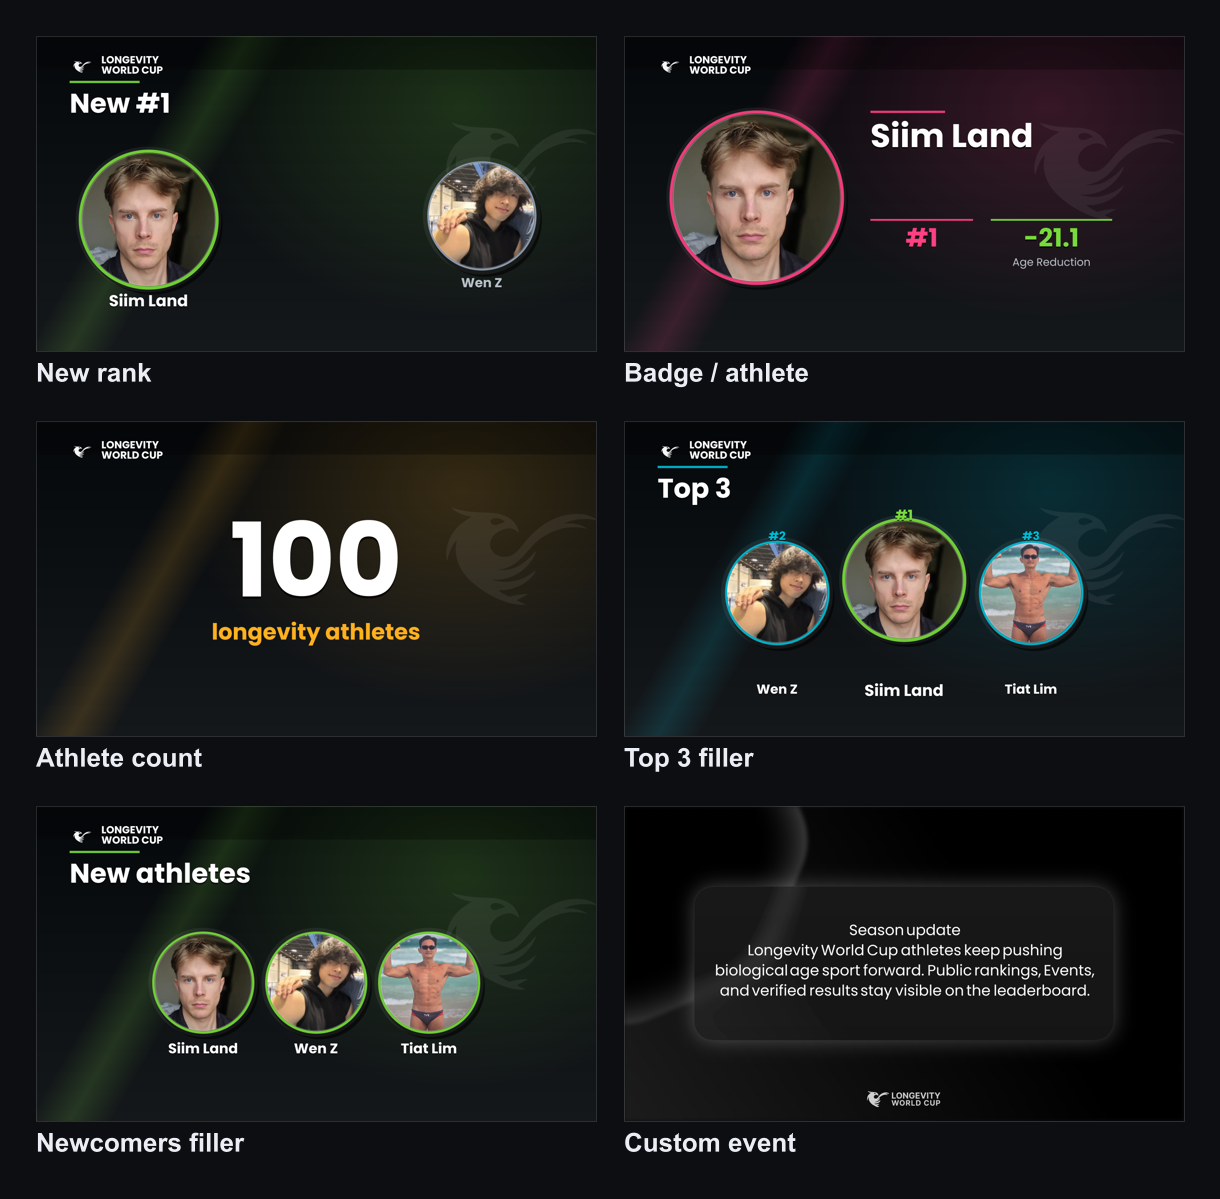
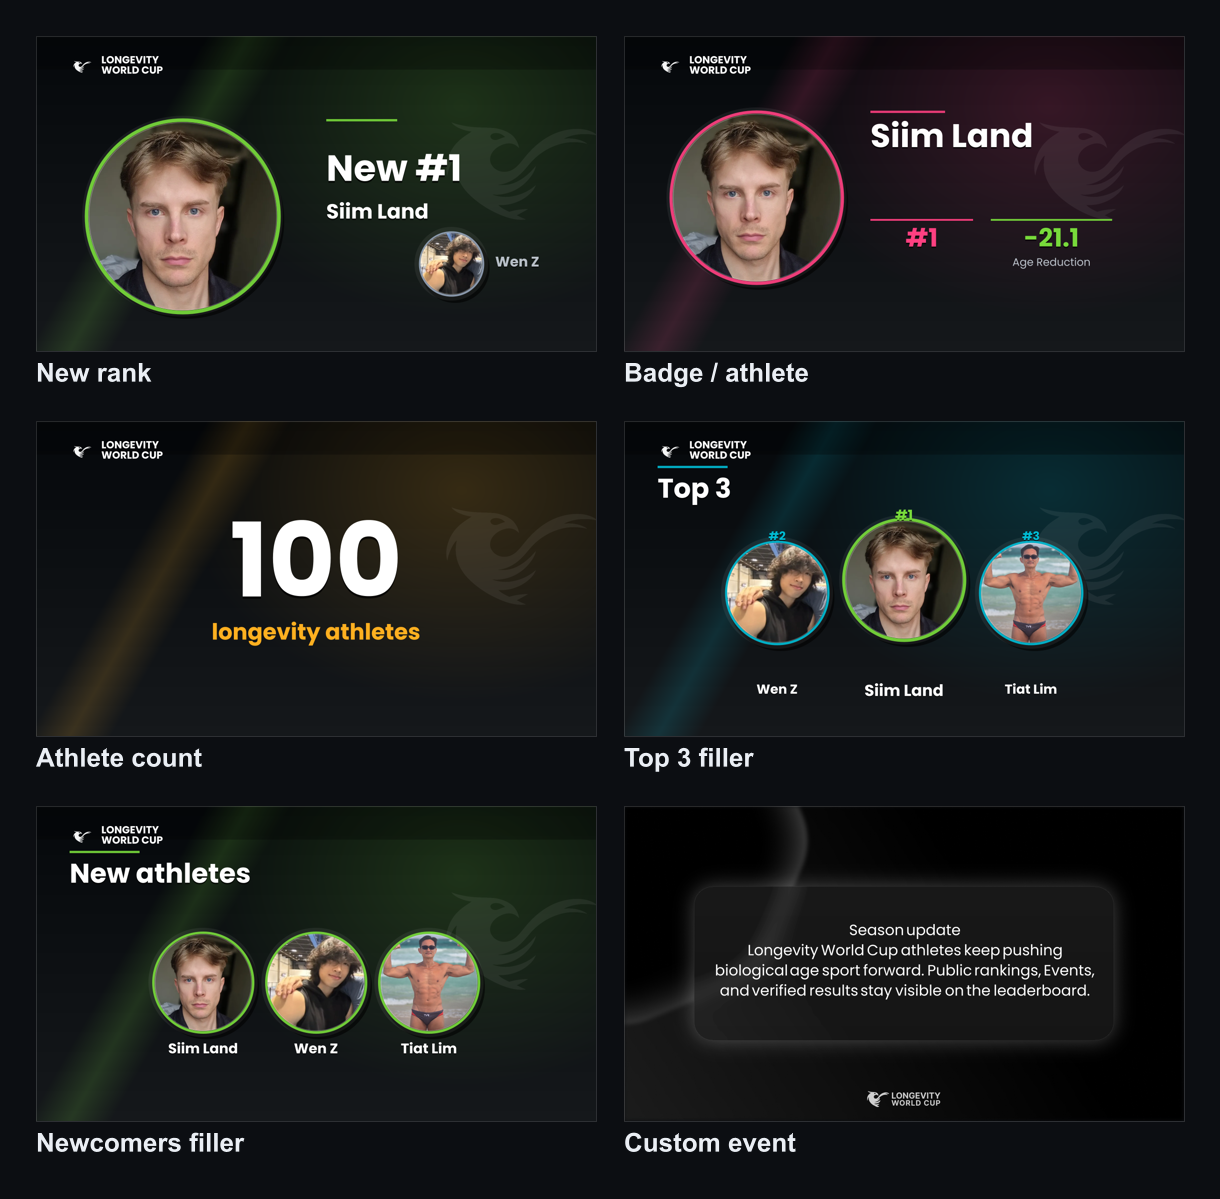
Polish new rank social image

Changed region(s): [[0.0623, 0.0617, 0.4361, 0.2777]]

diff --git a/LongevityWorldCup.Website/Business/XImageService.cs b/LongevityWorldCup.Website/Business/XImageService.cs
@@ -106,19 +106,27 @@ public class XImageService
         using var image = CreateCanvas(GreenAccent);
         var fonts = GetFontFamilies();
         await DrawBrandAsync(image, fonts.Bold);
-        DrawTitleBlock(
-            image,
-            fonts,
-            "",
-            winner.Rank > 0 ? $"New #{winner.Rank}" : "New rank",
-            "",
-            GreenAccent);
 
-        await DrawPortraitAsync(image, winner.ProfilePath, 98, 250, 286, GreenAccent, 7f);
-        await DrawPortraitAsync(image, previous.ProfilePath, 842, 272, 226, FaintTextColor, 4f);
+        await DrawPortraitAsync(image, winner.ProfilePath, 112, 184, 404, GreenAccent, 8f);
+        await DrawPortraitAsync(image, previous.ProfilePath, 824, 422, 132, FaintTextColor, 4f);
 
-        DrawCenteredLabel(image, winner.Name, fonts.Bold, 241f, 548f, 320f, 34f);
-        DrawCenteredLabel(image, previous.Name, fonts.Bold, 955f, 512f, 286f, 28f, MutedTextColor);
+        image.Mutate(ctx =>
+        {
+            var title = winner.Rank > 0 ? $"New #{winner.Rank}" : "New rank";
+            var titleFont = FitFontToWidth(fonts.Bold, title, 78f, 56f, 420f);
+            var winnerFont = FitFontToWidth(fonts.Bold, winner.Name, 44f, 32f, 420f);
+            var previousFont = FitFontToWidth(fonts.Bold, previous.Name, 30f, 22f, 180f);
+
+            ctx.Fill(ToRgba(GreenAccent, 225), new RectangularPolygon(622f, 178f, 152f, 5f));
+            DrawTextShadow(ctx, title, titleFont, new PointF(622f, 248f), HorizontalAlignment.Left, 4f);
+            DrawWrappedText(ctx, title, titleFont, TextColor, new PointF(622f, 248f), 420f, 1, 80f);
+
+            DrawTextShadow(ctx, winner.Name, winnerFont, new PointF(622f, 356f), HorizontalAlignment.Left, 3f);
+            DrawWrappedText(ctx, winner.Name, winnerFont, TextColor, new PointF(622f, 356f), 420f, 1, 52f);
+
+            DrawTextShadow(ctx, previous.Name, previousFont, new PointF(984f, 470f), HorizontalAlignment.Left, 2f);
+            DrawWrappedText(ctx, previous.Name, previousFont, MutedTextColor, new PointF(984f, 470f), 180f, 1, 34f);
+        });
 
         return await SaveToStreamAsync(image);
     }
